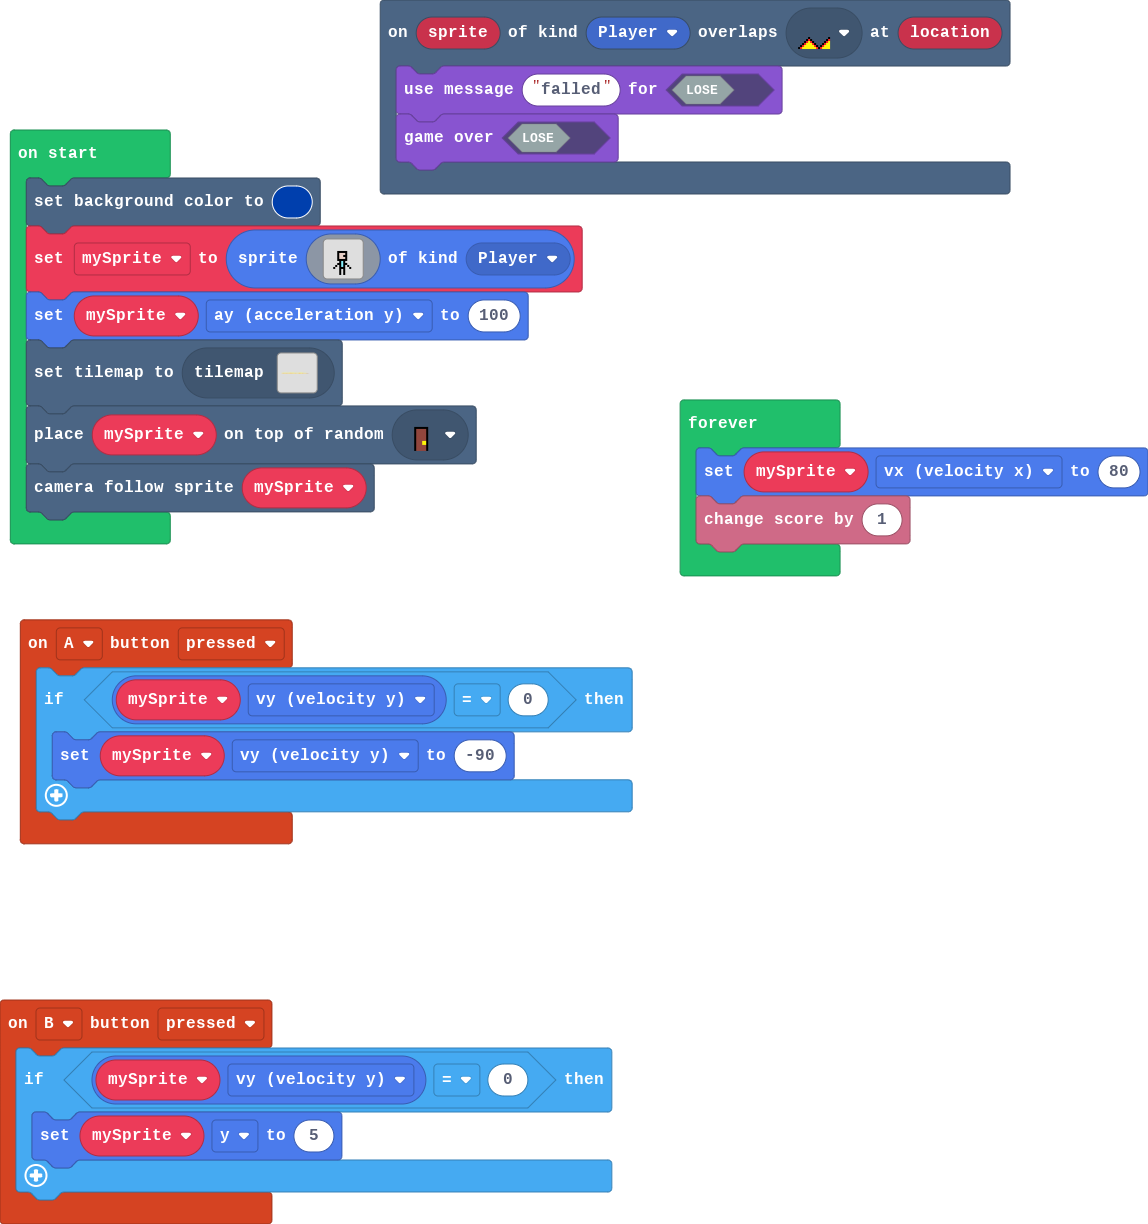
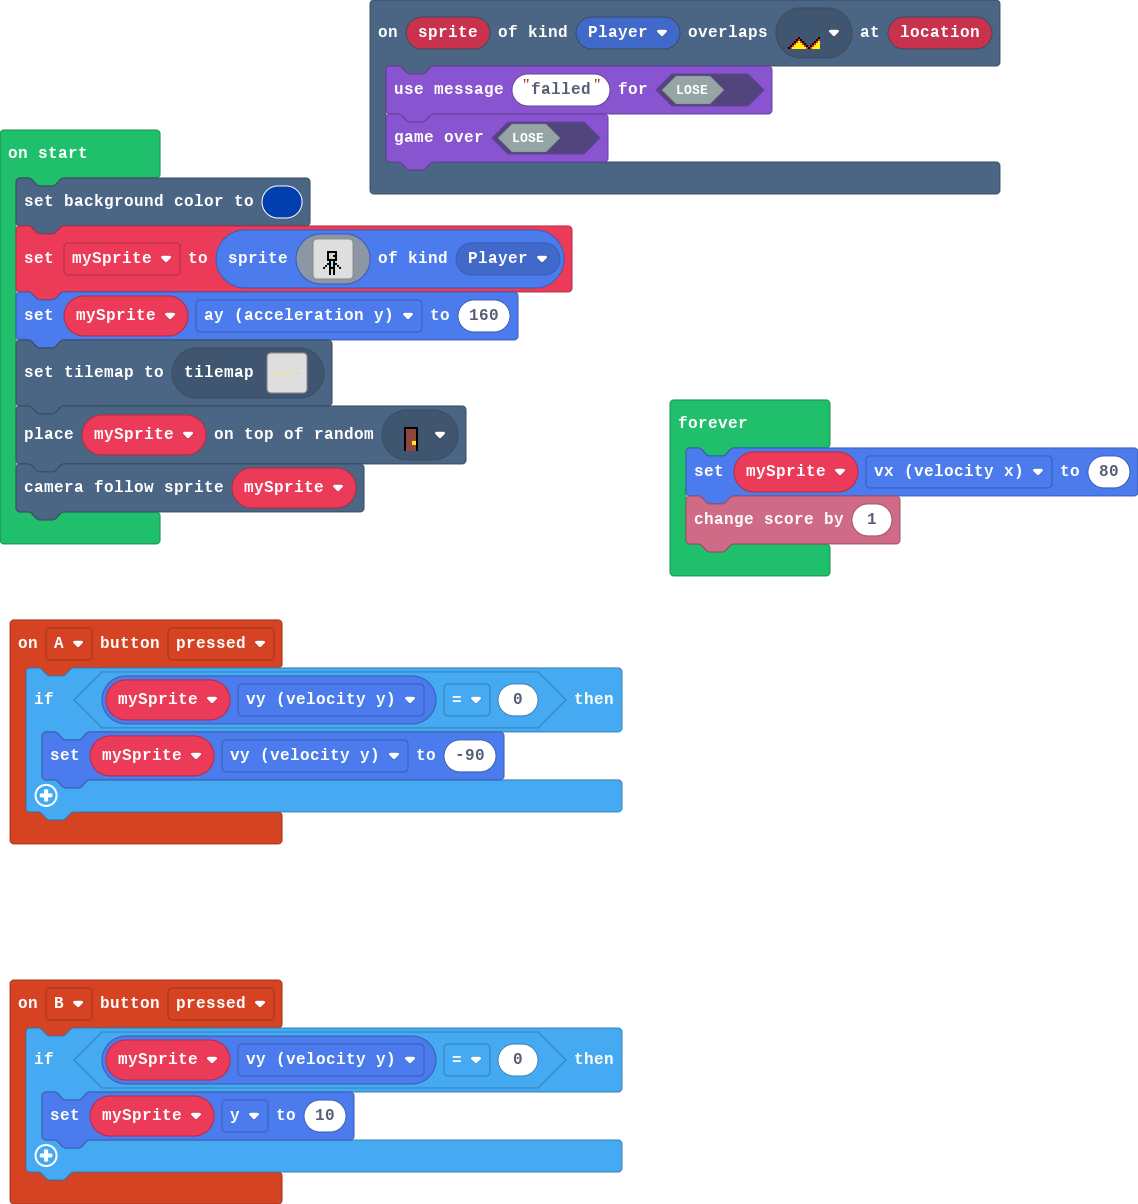
speed and gravity been patched

diff --git a/main.ts b/main.ts
@@ -1,6 +1,6 @@
 controller.B.onEvent(ControllerButtonEvent.Pressed, function () {
     if (mySprite.vy == 0) {
-        mySprite.y = 5
+        mySprite.y = 10
     }
 })
 controller.A.onEvent(ControllerButtonEvent.Pressed, function () {
@@ -32,7 +32,7 @@ mySprite = sprites.create(img`
     . . . . . . f . f . . . . . . . 
     . . . . . . f . f . . . . . . . 
     `, SpriteKind.Player)
-mySprite.ay = 100
+mySprite.ay = 160
 tiles.setCurrentTilemap(tilemap`level1`)
 tiles.placeOnRandomTile(mySprite, assets.tile`myTile1`)
 scene.cameraFollowSprite(mySprite)
